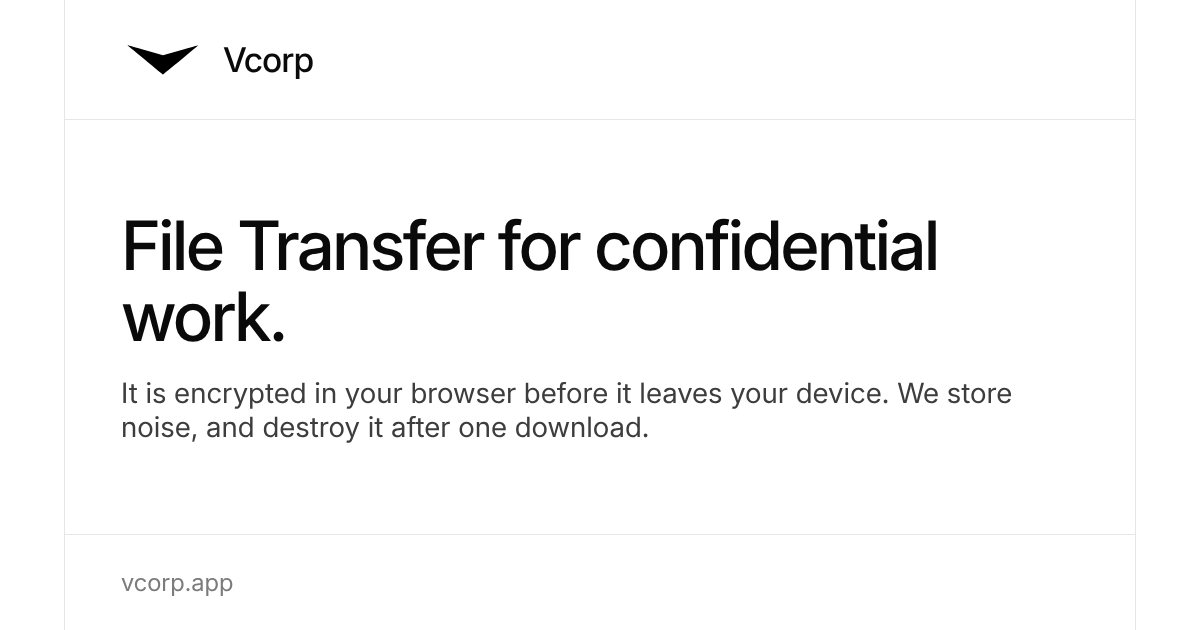
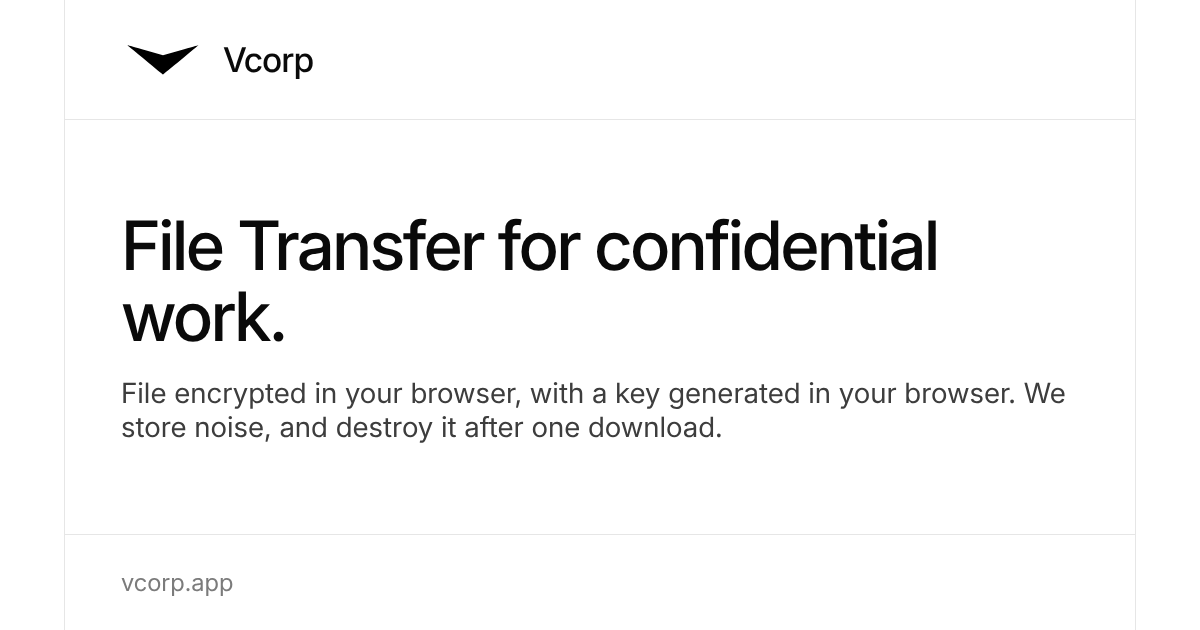
New text under the home title

Changed region(s): [[0.0925, 0.6032, 0.8942, 0.6937], [0.0925, 0.6032, 0.1542, 0.6333]]

diff --git a/index.html b/index.html
@@ -54,7 +54,7 @@
       <div class="frame">
         <section class="hero-head">
           <h1 id="hero-title">File Transfer for <span>confidential</span> work.</h1>
-          <p id="hero-lead">It is encrypted in your browser before it leaves your device. We store noise, and destroy it after one download.</p>
+          <p id="hero-lead">File encrypted in your browser, with a key generated in your browser. We store noise, and destroy it after one download.</p>
         </section>
 
         <section class="hero-head dropband" id="drop" data-state="idle">
